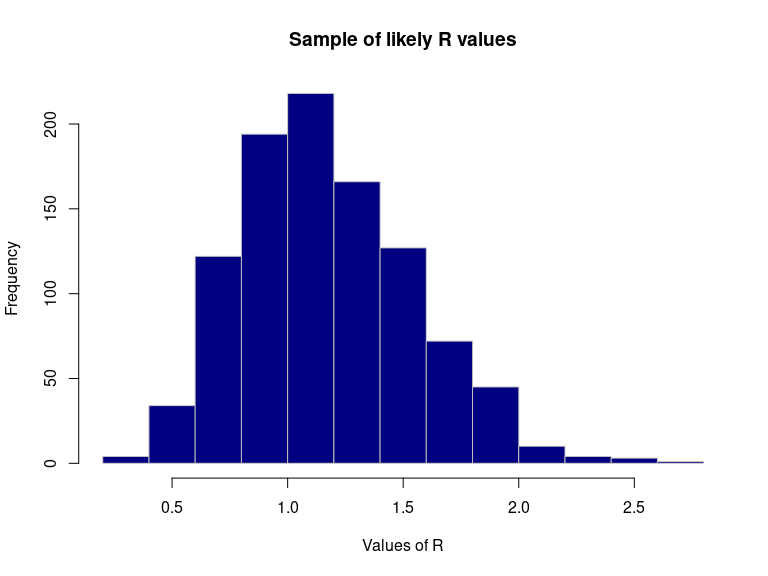
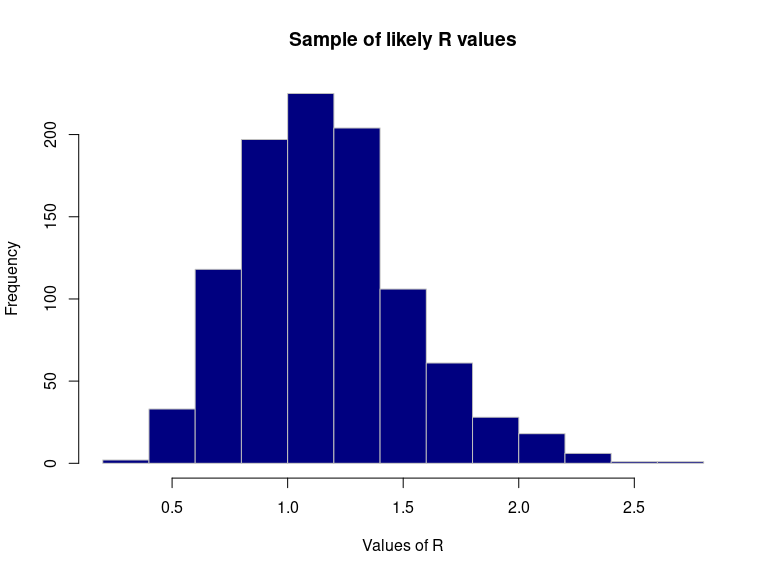
rebuilt README

diff --git a/README.md b/README.md
@@ -166,13 +166,13 @@ values, and then compute statistics on this sample:
 R_val <- sample_R(res, 1000)
 summary(R_val) # basic stats
 #>    Min. 1st Qu.  Median    Mean 3rd Qu.    Max. 
-#>  0.2603  0.9009  1.1211  1.1694  1.4139  2.6126
+#>  0.3103  0.9109  1.1311  1.1600  1.3614  2.6727
 quantile(R_val) # quartiles
 #>        0%       25%       50%       75%      100% 
-#> 0.2602603 0.9009009 1.1211211 1.4139139 2.6126126
+#> 0.3103103 0.9109109 1.1311311 1.3613614 2.6726727
 quantile(R_val, c(0.025, 0.975)) # 95% credibility interval
 #>      2.5%     97.5% 
-#> 0.5402903 1.9622122
+#> 0.5505506 2.0020020
 hist(R_val, border = "grey", col = "navy",
      xlab = "Values of R",
      main = "Sample of likely R values")
